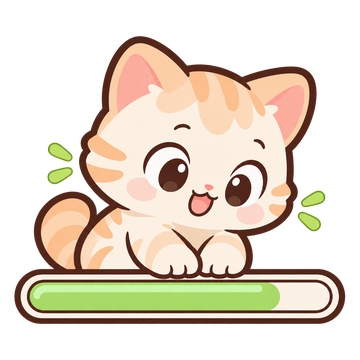
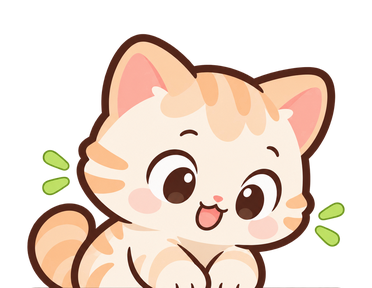
feat: draw the pet's budget gauge from the real remaining budget (F-M02)
The gauge in the artwork was only a picture. The export script now cuts the
drawn gauge off and the home screen draws one under the pet that fills with
budgetBalanceAmount / budgetAmount in the state color, empty once the
budget is used up.

diff --git a/src/components/budget-gauge.tsx b/src/components/budget-gauge.tsx
@@ -1,0 +1,48 @@
+import { StyleSheet, Text, View } from 'react-native';
+
+import type { PetState } from '@/api/types';
+import { remainingBudgetRatio } from '@/lib/pet';
+
+// Colors sampled from the pet artwork's original gauge; BUDGET_REACHED has nothing left to fill.
+const FILL_COLORS: Record<PetState, string> = {
+  STABLE: '#A9DB66',
+  CAUTION: '#FED16C',
+  WARNING: '#FD9457',
+  BUDGET_REACHED: '#FD9457',
+};
+
+type BudgetGaugeProps = { petState: PetState; budgetAmount: number; budgetBalanceAmount: number };
+
+// The bar the pet sits on: how much of this month's budget is left. The balance card below says the
+// same in words, so screen readers skip the bar (as they skip the picture).
+export function BudgetGauge({ petState, budgetAmount, budgetBalanceAmount }: BudgetGaugeProps) {
+  const ratio = remainingBudgetRatio(budgetAmount, budgetBalanceAmount);
+  return (
+    <View accessibilityElementsHidden importantForAccessibility="no-hide-descendants" style={styles.wrap}>
+      <View style={styles.outer}>
+        <View style={styles.track}>
+          {ratio > 0 && (
+            <View
+              testID="budget-gauge-fill"
+              style={[styles.fill, { width: `${ratio * 100}%`, backgroundColor: FILL_COLORS[petState] }]}
+            />
+          )}
+        </View>
+      </View>
+      <Text style={styles.caption}>남은 예산</Text>
+    </View>
+  );
+}
+
+const BROWN = '#4E2617';
+const CREAM = '#FCF2E6';
+
+const styles = StyleSheet.create({
+  wrap: { alignItems: 'center', gap: 4 },
+  // Same width as the gauge the artwork was exported against (scripts/export-pet-images.py).
+  outer: { width: 120, height: 19, borderRadius: 9.5, borderWidth: 2.5, borderColor: BROWN, backgroundColor: CREAM, padding: 2 },
+  track: { flex: 1, borderRadius: 6, borderWidth: 1.5, borderColor: BROWN, backgroundColor: CREAM, overflow: 'hidden' },
+  // A sliver of budget still shows as a round dot rather than vanishing.
+  fill: { height: '100%', minWidth: 7, borderRadius: 6 },
+  caption: { fontSize: 12, color: '#666' },
+});

diff --git a/__tests__/budget-gauge-test.tsx b/__tests__/budget-gauge-test.tsx
@@ -1,0 +1,48 @@
+import { isHiddenFromAccessibility, render, screen } from '@testing-library/react-native';
+import { StyleSheet } from 'react-native';
+
+import { BudgetGauge } from '@/components/budget-gauge';
+import { remainingBudgetRatio } from '@/lib/pet';
+
+const SEEN = { includeHiddenElements: true };
+
+test.each([
+  [300000, 300000, 1],
+  [300000, 200000, 2 / 3],
+  [100000, 1, 0.00001],
+  [100000, 0, 0],
+  [100000, -10000, 0],
+  [0, 0, 0],
+])('budget %d with balance %d leaves %f of the gauge', (budget, balance, ratio) => {
+  expect(remainingBudgetRatio(budget, balance)).toBeCloseTo(ratio, 6);
+});
+
+function fillStyle() {
+  return StyleSheet.flatten(screen.getByTestId('budget-gauge-fill', SEEN).props.style);
+}
+
+test('fills the gauge with the share of budget left, in the state color', async () => {
+  await render(<BudgetGauge petState="CAUTION" budgetAmount={150000} budgetBalanceAmount={50000} />);
+
+  expect(fillStyle()).toMatchObject({ width: `${(50000 / 150000) * 100}%`, backgroundColor: '#FED16C' });
+  screen.getByText('남은 예산', SEEN);
+});
+
+test('uses the warning color while little budget is left', async () => {
+  await render(<BudgetGauge petState="WARNING" budgetAmount={110000} budgetBalanceAmount={10000} />);
+
+  expect(fillStyle().backgroundColor).toBe('#FD9457');
+});
+
+test('shows an empty gauge once the budget is used up or exceeded', async () => {
+  await render(<BudgetGauge petState="BUDGET_REACHED" budgetAmount={100000} budgetBalanceAmount={-10000} />);
+
+  expect(screen.queryByTestId('budget-gauge-fill', SEEN)).toBeNull();
+});
+
+test('is hidden from screen readers because the balance card says the same', async () => {
+  await render(<BudgetGauge petState="STABLE" budgetAmount={300000} budgetBalanceAmount={300000} />);
+
+  expect(screen.queryByText('남은 예산')).toBeNull();
+  expect(isHiddenFromAccessibility(screen.getByText('남은 예산', SEEN))).toBe(true);
+});

diff --git a/__tests__/home-screen-test.tsx b/__tests__/home-screen-test.tsx
@@ -1,7 +1,7 @@
 import { act, fireEvent, render, screen, waitFor } from '@testing-library/react-native';
 
 import { router } from 'expo-router';
-import { AppState } from 'react-native';
+import { AppState, StyleSheet } from 'react-native';
 
 import { ApiError } from '@/api/client';
 import HomeScreen from '@/app/index';
@@ -66,6 +66,7 @@ test('shows the over-budget amount', async () => {
 
   await screen.findByText('10,000원 초과했어요');
   screen.getByText('사용률 103.3%');
+  expect(screen.queryByTestId('budget-gauge-fill', { includeHiddenElements: true })).toBeNull();
   expect(screen.queryByText('첫 지출을 기록해 보세요')).toBeNull();
 });
 
@@ -155,6 +156,11 @@ test('refetches on focus without replacing the loaded home with a spinner', asyn
   screen.getByText('고양이 · 안정');
 });
 
+function gaugeWidth() {
+  const fill = screen.getByTestId('budget-gauge-fill', { includeHiddenElements: true });
+  return StyleSheet.flatten(fill.props.style).width;
+}
+
 test('shows the new totals after a focus refetch', async () => {
   mockApi.getHome.mockResolvedValueOnce(HOME).mockResolvedValueOnce({
     ...HOME,
@@ -165,12 +171,14 @@ test('shows the new totals after a focus refetch', async () => {
   });
   await render(<HomeScreen />);
   await screen.findByText('300,000원 남았어요');
+  expect(gaugeWidth()).toBe('100%');
 
   await act(async () => mockFocusEffect?.());
 
   await screen.findByText('고양이 · 주의');
   screen.getByText('138,000원 남았어요');
   screen.getByText('사용률 54%');
+  expect(gaugeWidth()).toBe('46%');
 });
 
 test('links to the settings screen', async () => {

diff --git a/src/app/index.tsx b/src/app/index.tsx
@@ -5,6 +5,7 @@ import { SafeAreaView } from 'react-native-safe-area-context';
 
 import { ApiError } from '@/api/client';
 import type { Home } from '@/api/types';
+import { BudgetGauge } from '@/components/budget-gauge';
 import { Button } from '@/components/button';
 import { LoadingView, MessageView } from '@/components/message-view';
 import { PetImage } from '@/components/pet-image';
@@ -74,7 +75,14 @@ export default function HomeScreen() {
           </Pressable>
         </View>
         <View style={styles.card}>
-          <PetImage petType={home.petType} petState={home.petState} />
+          <View>
+            <PetImage petType={home.petType} petState={home.petState} />
+            <BudgetGauge
+              petState={home.petState}
+              budgetAmount={home.budgetAmount}
+              budgetBalanceAmount={home.budgetBalanceAmount}
+            />
+          </View>
           <Text style={styles.petLine}>
             {PET_LABELS[home.petType]} · {petCopy.name}
           </Text>

diff --git a/src/components/pet-image.tsx b/src/components/pet-image.tsx
@@ -25,7 +25,7 @@ export function PetImage({ petType, petState, images = PET_IMAGES }: PetImagePro
   const source = images[petType]?.[petState];
 
   if (source !== undefined) {
-    return <Image {...HIDDEN_FROM_SCREEN_READER} testID="pet-image" source={source} contentFit="contain" style={styles.frame} />;
+    return <Image {...HIDDEN_FROM_SCREEN_READER} testID="pet-image" source={source} contentFit="contain" style={styles.art} />;
   }
   return (
     <View
@@ -40,6 +40,8 @@ export function PetImage({ petType, petState, images = PET_IMAGES }: PetImagePro
 }
 
 const styles = StyleSheet.create({
+  // Artwork is exported bottom-aligned at this size so the paws rest on the budget gauge below.
+  art: { width: 124, height: 96, alignSelf: 'center' },
   frame: { width: 120, height: 120, borderRadius: 16, alignSelf: 'center' },
   placeholder: {
     borderWidth: 2,

diff --git a/src/lib/pet.ts b/src/lib/pet.ts
@@ -9,3 +9,9 @@ export const PET_STATE_COPY: Record<PetState, { name: string; description: strin
   WARNING: { name: '경고', description: '남은 예산이 신경 쓰이는 눈치예요' },
   BUDGET_REACHED: { name: '예산 도달', description: '예산을 모두 사용했어요' },
 };
+
+// Share of the budget still left, 0..1, for the gauge under the pet. Over budget reads as empty.
+export function remainingBudgetRatio(budgetAmount: number, budgetBalanceAmount: number): number {
+  if (budgetAmount <= 0) return 0;
+  return Math.min(1, Math.max(0, budgetBalanceAmount / budgetAmount));
+}

diff --git a/scripts/export-pet-images.py b/scripts/export-pet-images.py
@@ -1,0 +1,66 @@
+"""Export the home pet pictures from the original artwork.
+
+Each original is a square transparent PNG with the pet sitting on a drawn budget gauge. The app
+draws that gauge itself (src/components/budget-gauge.tsx) so it can show the real remaining
+budget, so this script cuts the drawn gauge off and keeps only the pet:
+
+1. Find the gauge: the bottom rounded bar, widest at its vertical center.
+2. Scale so the gauge is GAUGE_WIDTH pt wide, keeping only what is above the gauge.
+3. Place the pet bottom-aligned on a CANVAS_WIDTH x CANVAS_HEIGHT pt canvas, centered on the
+   gauge, so the paws touch the bottom edge and sit on the app's gauge.
+4. Save 1x/2x/3x files named like the originals.
+
+Usage (needs Pillow): python3 scripts/export-pet-images.py <originals dir> assets/images/pets
+"""
+
+import os
+import sys
+
+from PIL import Image
+
+# Keep in sync with src/components/pet-image.tsx and src/components/budget-gauge.tsx.
+GAUGE_WIDTH = 120
+CANVAS_WIDTH = 124
+CANVAS_HEIGHT = 96
+
+
+def find_gauge(alpha):
+    """Return (left, top, right, bottom) of the drawn gauge in pixels."""
+    width, height = alpha.size
+    px = alpha.load()
+    rows = []
+    for y in range(height):
+        xs = [x for x in range(width) if px[x, y] > 128]
+        rows.append((xs[0], xs[-1]) if xs else None)
+    bottom = max(y for y, row in enumerate(rows) if row)
+    zone = range(bottom - int(height * 0.18), bottom + 1)
+    widths = {y: rows[y][1] - rows[y][0] for y in zone if rows[y]}
+    widest = max(widths.values())
+    center_rows = [y for y, w in widths.items() if w >= widest - 2]
+    center = (min(center_rows) + max(center_rows)) // 2
+    top = center - (bottom - center)
+    left = min(rows[y][0] for y in center_rows)
+    right = max(rows[y][1] for y in center_rows)
+    return left, top, right, bottom
+
+
+def export(src_path, dst_dir):
+    image = Image.open(src_path).convert('RGBA')
+    left, top, right, _ = find_gauge(image.getchannel('A'))
+    name = os.path.splitext(os.path.basename(src_path))[0]
+    for scale, suffix in [(1, ''), (2, '@2x'), (3, '@3x')]:
+        ratio = GAUGE_WIDTH * scale / (right - left)
+        canvas_w, canvas_h = CANVAS_WIDTH * scale, CANVAS_HEIGHT * scale
+        # Source window: canvas-sized, centered on the gauge, ending at the gauge's top edge.
+        win_w, win_h = canvas_w / ratio, canvas_h / ratio
+        center_x = (left + right) / 2
+        box = (round(center_x - win_w / 2), round(top - win_h), round(center_x + win_w / 2), top)
+        pet = image.crop(box).resize((canvas_w, canvas_h), Image.LANCZOS)
+        pet.save(os.path.join(dst_dir, f'{name}{suffix}.png'), optimize=True)
+
+
+if __name__ == '__main__':
+    src_dir, dst_dir = sys.argv[1], sys.argv[2]
+    for file in sorted(os.listdir(src_dir)):
+        if file.endswith('.png'):
+            export(os.path.join(src_dir, file), dst_dir)

diff --git a/README.md b/README.md
@@ -176,14 +176,16 @@ set -a; source <(grep -E '^PETGYEBU_(KAKAO_APP_ID|GOOGLE_CLIENT_IDS)=' ~/Desktop
 
 홈의 펫 그림 8장(고양이·강아지 × 상태 4개)은 `assets/images/pets/`에 있고 `src/lib/pet-images.ts`의 `PET_IMAGES`에 등록돼 있다. 등록이 빠진 펫·상태는 임시 상자(점선 테두리에 `CAT`·`STABLE`·"임시 그림")로 보인다.
 
+펫 아래의 게이지는 그림이 아니라 코드(`src/components/budget-gauge.tsx`)로 그린다. 이번 달 예산 중 **남은 비율**만큼 차고(`budgetBalanceAmount / budgetAmount`), 다 쓰거나 초과하면 비어 있다. 색은 상태를 따른다(안정 연두, 주의 노랑, 경고 주황).
+
 그림을 바꿀 때:
 
-1. 원본은 저장소 밖에 둔다(지금 원본: ChatGPT 이미지, 1024~1254px 정사각형, 투명 배경). 큰 원본을 커밋하지 않고, 1배율 이름으로 잘못 쓰이지 않게 하기 위해서다.
-2. 원본마다 투명한 가장자리를 잘라내고, 긴 변이 92%를 채우도록 정사각형 가운데에 놓은 뒤 120·240·360px로 줄여 `{cat|dog}-{stable|caution|warning|budget-reached}.png`, `@2x.png`, `@3x.png`로 저장한다. 화면에는 120×120으로 보인다.
+1. 원본은 저장소 밖에 둔다(지금 원본: ChatGPT 이미지, 1024~1254px 정사각형, 투명 배경, 펫이 그려진 게이지 위에 앉은 모습). 큰 원본을 커밋하지 않고, 1배율 이름으로 잘못 쓰이지 않게 하기 위해서다.
+2. `python3 scripts/export-pet-images.py <원본 폴더> assets/images/pets`로 내보낸다(Pillow 필요). 그려진 게이지를 찾아 잘라내고, 펫을 124×96pt 캔버스 바닥에 맞춰 1·2·3배율 `{cat|dog}-{stable|caution|warning|budget-reached}.png`로 저장한다. 발이 캔버스 아래 끝에 닿아 코드 게이지 위에 앉는다.
 3. `require`에는 항상 배율 없는 이름을 쓴다. Metro가 화면에 맞는 배율 파일을 고른다.
-4. 그림은 화면 낭독기에서 숨긴다. 바로 아래 글이 펫과 상태를 읽어 주므로 그림까지 읽으면 같은 내용을 두 번 듣게 된다.
+4. 그림과 게이지는 화면 낭독기에서 숨긴다. 바로 아래 글이 펫 상태와 남은 금액을 읽어 주므로 같은 내용을 두 번 듣지 않게 하기 위해서다.
 
-상태별 연출 기준(안정은 편안함, 주의는 커진 눈, 경고는 안절부절하는 시선과 앞발, 예산 도달은 빈 게이지를 보는 놀란 눈)은 `docs/01-prd.md` 5절에 있다. 비난·질병·처벌 이미지는 쓰지 않는다. 지금 그림은 남은 예산을 뜻하는 게이지가 상태마다 연두·노랑·주황·빈 칸으로 줄어든다.
+상태별 연출 기준(안정은 편안함, 주의는 커진 눈, 경고는 안절부절하는 시선과 앞발, 예산 도달은 빈 게이지를 보는 놀란 눈)은 `docs/01-prd.md` 5절에 있다. 비난·질병·처벌 이미지는 쓰지 않는다.
 
 ## Expo
 
